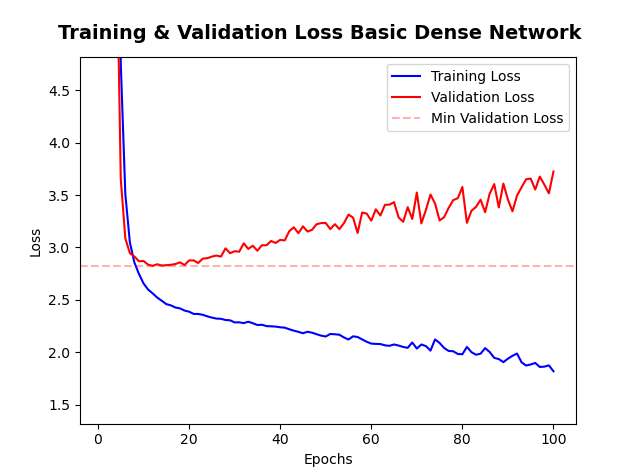
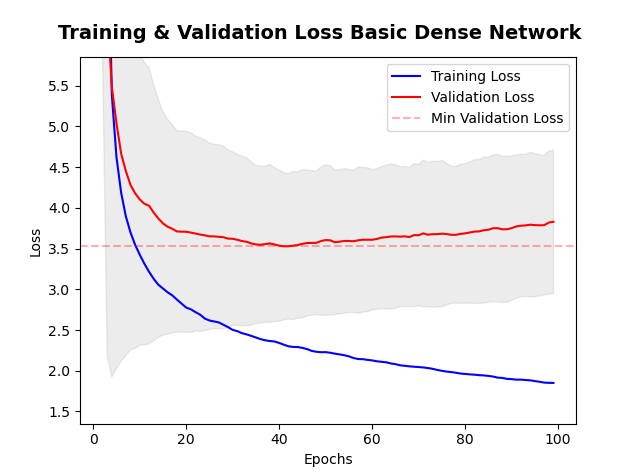
basic nn improved figures and metrics

diff --git a/03_basic_neuralnet_mlp.py b/03_basic_neuralnet_mlp.py
@@ -16,16 +16,13 @@ start=time.time()
 import os
 os.environ['TF_CPP_MIN_LOG_LEVEL'] = '3'
 
-import tensorflow as tf
-import tensorflow_hub as hub
 from tensorflow import keras
 from tensorflow.keras import layers
 from sklearn.model_selection import train_test_split
-import pandas as pd
 import numpy as np
 import pickle
 import matplotlib.pyplot as plt
-from fish_functions import print_tf_setup, open_jpeg_as_np, gen_data_array_vector
+from fish_functions import print_tf_setup, open_jpeg_as_np, gen_data_array_vector, n_retraining
 
 plt.close('all')
 
@@ -50,6 +47,7 @@ with open('data_labels/label_paths', 'rb') as myFile:
 image_size = (32, 32)
 batch_size = 32
 num_classes = 14
+num_epochs = 100
 
 image_vector_len = image_size[0] * image_size[1]
 num_images = len(labels)
@@ -66,9 +64,6 @@ plt.imshow(im, cmap='gray', vmin=0, vmax=255)
 #loading all our data to a np array, and train test split
 data_array = gen_data_array_vector(label_paths, image_size)
 train_images, test_images, train_labels, test_labels = train_test_split(data_array, one_hot_labels, test_size=0.2)
-
-#train_images = train_images[:100]
-#train_labels = train_labels[:100]
 
 
 #---------------------------------- MODEL BUILD -------------------------------
@@ -93,10 +88,24 @@ simple_model.compile(loss='categorical_crossentropy',
 simple_model.summary()
 
 clf = simple_model.fit(train_images, 
-                           train_labels, 
-                           epochs=100, 
-                           batch_size=batch_size,
-                           validation_data=(test_images, test_labels))
+                       train_labels, 
+                       epochs=num_epochs, 
+                       batch_size=batch_size,
+                       validation_data=(test_images, test_labels))
+
+metrics_dict = n_retraining(model=simple_model, 
+                            n=10, 
+                            train_data=train_images, 
+                            train_labels=train_labels, 
+                            val_data=test_images,
+                            val_labels=test_labels,
+                            epochs=num_epochs,
+                            batch_size=batch_size,
+                            s=3)
+
+#looking at predictions on a collection of test and train images for basic inspection and QC.
+train_predictions = simple_model.predict(train_images[:100])
+val_predictions = simple_model.predict(test_images[:100])
 
 
 #------------------------------- MODEL PERFORMANCE ----------------------------
@@ -114,22 +123,18 @@ fig, ax = plt.subplots()
 fig.suptitle('Training & Validation Loss Basic Dense Network', y=0.95, fontsize=14, fontweight='bold')
 
 #plotting training and validation loss
-ax.plot(epochs, loss_values, 'b', label='Training Loss')
-ax.plot(epochs, val_loss, 'r', label='Validation Loss')
-ax.axhline(min(val_loss), c='r', alpha=0.3, ls='dashed', label='Min Validation Loss')
+ax.plot(epochs, metrics_dict['train_loss_mean'], 'b', label='Training Loss')
+ax.plot(epochs, metrics_dict['val_loss_mean'], 'r', label='Validation Loss')
+ax.plot(epochs, metrics_dict['val_loss_std_p'], label='_nolegend_', alpha=0)
+ax.plot(epochs, metrics_dict['val_loss_std_n'], label='_nolegend_', alpha=0)
+ax.fill_between(epochs, metrics_dict['val_loss_std_p'], metrics_dict['val_loss_std_n'], color='grey', alpha=0.15)
+ax.axhline(np.nanmin(metrics_dict['val_loss_mean']), c='r', alpha=0.3, ls='dashed', label='Min Validation Loss')
 
-#setting axis limits
-ax.set_ylim([min(loss_values)-0.5, min(loss_values)+3])
-
-#plotting legend
-ax.legend()
-
-#plotting axis labels
+#setting axis limits, labels and legend
+ax.set_ylim([np.nanmin(metrics_dict['train_loss_mean'])-0.5, np.nanmin(metrics_dict['train_loss_mean'])+4])
 ax.set_xlabel('Epochs')
 ax.set_ylabel('Loss')
-
-train_predictions = simple_model.predict(train_images[:100])
-val_predictions = simple_model.predict(test_images[:100])
+ax.legend()
 
 #--------- TRAINING & VALIDATION ACCURACY ---------
 
@@ -137,26 +142,27 @@ val_predictions = simple_model.predict(test_images[:100])
 accuracy_values = history_dict['accuracy']
 val_accuracy = history_dict['val_accuracy']
 
-#fig setup including twin axis
+#fig setup
 fig2, ax = plt.subplots()
 fig2.suptitle('Training & Validation Accuracy Basic Dense Network', y=0.95, fontsize=14, fontweight='bold')
 
-#plotting training and validation loss
-ax.plot(epochs, accuracy_values, 'b', label='Training Accuracy')
-ax.plot(epochs, val_accuracy, 'r', label='Validation Accuracy')
-ax.axhline(max(val_accuracy), c='r', alpha=0.3, ls='dashed', label='Max Validation Accuracy')
+#plotting training and validation accuracy
+ax.plot(epochs, metrics_dict['train_acc_mean'], 'b', label='Training Accuracy')
+ax.plot(epochs, metrics_dict['val_acc_mean'], 'r', label='Validation Accuracy')
+ax.plot(epochs, metrics_dict['val_acc_std_p'], label='_nolegend_', alpha=0)
+ax.plot(epochs, metrics_dict['val_acc_std_n'], label='_nolegend_', alpha=0)
+ax.fill_between(epochs, metrics_dict['val_acc_std_p'], metrics_dict['val_acc_std_n'], color='grey', alpha=0.15)
+
+#plotting accuracy lines
+ax.axhline(np.nanmax(metrics_dict['val_acc_mean']), c='r', alpha=0.3, ls='dashed', label='Max Validation Accuracy')
 ax.axhline(1/14, c='k', alpha=0.3, ls='dashed', label='Random Guess Accuracy')
 
-#setting axis limits
-ax.set_ylim([0,max(accuracy_values)+0.1])
-
-#plotting legend
+#plotting legend and setting limits
 ax.legend()
 ax.set(xlabel='Epochs',
        ylabel='Accuracy');
+ax.set_ylim([0,np.nanmax(metrics_dict['train_acc_mean'])+0.1])
 
-
-#https://www.youtube.com/watch?v=J6Ok8p463C4
 
 # ----------------------------------- END -------------------------------------
 

diff --git a/fish_functions.py b/fish_functions.py
@@ -44,8 +44,8 @@ def smooth_filter(y, box_pts, set_nan=True):
     edge = int((box_pts - 1) / 2)
     
     if set_nan:
-        y_smooth[:edge] = ['NaN', 'NaN']
-        y_smooth[-edge:] = ['NaN', 'NaN']
+        y_smooth[:edge] = ['NaN'] * edge
+        y_smooth[-edge:] = ['NaN'] * edge
     else:
         y_smooth[:edge] = y[:edge]
         y_smooth[-edge:] = y[-edge:]        

diff --git a/README.md b/README.md
@@ -48,7 +48,7 @@ In total 14 different species of British freshwater fish were selected, with 100
 
 An example of a selection of images in a single batch size of 32 can be seen in figure 2. Here all images have been standardised to a common size of 256 * 256 ready for training.
 
-<img src="https://raw.githubusercontent.com/mhaythornthwaite/Freshwater_Fish_Prediction/master/figures/Images_in_a_single_batch_v2.png" alt="Figure 1">
+<img src="https://raw.githubusercontent.com/mhaythornthwaite/Freshwater_Fish_Prediction/master/figures/Images_in_a_single_batch_v2.png" alt="Figure 2">
 
 <em>Figure 2. Example of images present in a single batch for training.</em>
 
